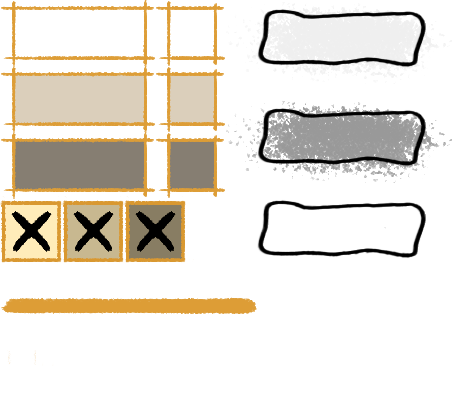
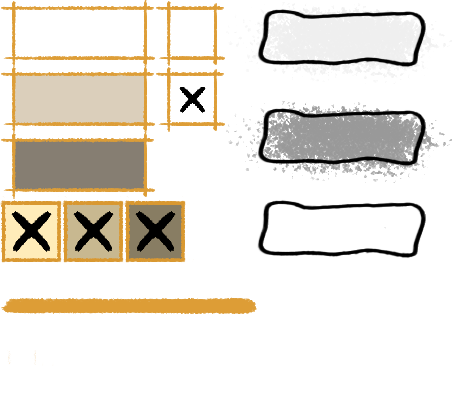
Some combat buttons

Changed region(s): [[0.3392, 0.1832, 0.4934, 0.5191]]

diff --git a/Game/Source/GuiButton.cpp b/Game/Source/GuiButton.cpp
@@ -1,7 +1,7 @@
 #include "GuiButton.h"
 #include "GuiManager.h"
 #include "IntroScene.h"
-
+#include "Combat.h"
 GuiButton::GuiButton(uint32 id, SDL_Rect bounds, ButtonType bType, const char* text, int fontSize, Font font, int speed, Easings eType, AnimationAxis axisType) : GuiControl(GuiControlType::BUTTON, id)
 {
 	this->bounds = bounds;
@@ -67,19 +67,19 @@ GuiButton::GuiButton(uint32 id, SDL_Rect bounds, ButtonType bType, const char* t
 		buttonTex = app->tex->Load("Assets/GUI/Target_To_Select.png");
 		break;
 	case ButtonType::SKILL_1:
-		buttonTex = app->tex->Load("Assets/GUI/spritesheetAbility.png");
+		buttonTex = app->tex->Load("Assets/GUI/UIArt/buttonsCombat.png");
 		break;
 	case ButtonType::SKILL_2:
-		buttonTex = app->tex->Load("Assets/GUI/spritesheetAbility.png");
+		buttonTex = app->tex->Load("Assets/GUI/UIArt/buttonsCombat.png");
 		break;
 	case ButtonType::SKILL_3:
-		buttonTex = app->tex->Load("Assets/GUI/spritesheetAbility.png");
+		buttonTex = app->tex->Load("Assets/GUI/UIArt/buttonsCombat.png");
 		break;
 	case ButtonType::SKILL_4:
-		buttonTex = app->tex->Load("Assets/GUI/spritesheetAbility.png");
+		buttonTex = app->tex->Load("Assets/GUI/UIArt/buttonsCombat.png");
 		break;
 	case ButtonType::CHANGE_POSITION:
-		buttonTex = app->tex->Load("Assets/GUI/spritesheetAbility.png");
+		buttonTex = app->tex->Load("Assets/GUI/UIArt/buttonsCombat.png");
 		break;
 	case ButtonType::SKIPPY:
 		buttonTex = app->tex->Load("Assets/GUI/UIArt/buttonsCombat.png");
@@ -247,6 +247,12 @@ bool GuiButton::Draw(Render* render)
 	else if (buttonType == ButtonType::SKIPPY) { rect = { 351, 1, 132, 44 }; }
 	else if (buttonType == ButtonType::DIALOGUE) { rect = { 0, 0, 343, 66 }; }
 	else if (buttonType == ButtonType::EXTRA_LARGE) { rect.x = 5, rect.y = 5; }
+	else if (buttonType == ButtonType::SKILL_1) { rect = { 151, 201, 47, 47 }; }
+	else if (buttonType == ButtonType::SKILL_2) { rect = { 151, 251, 47, 47 }; }
+	else if (buttonType == ButtonType::SKILL_3) { rect = { 151, 0, 47, 47 }; }
+	else if (buttonType == ButtonType::SKILL_4) { rect = { 151, 0, 47, 47 }; }
+	else if (buttonType == ButtonType::CHANGE_POSITION) { rect = { 0, 0, 343, 66 }; }
+
 
 	// TO DO, EN DIALOGO LOS BOTONES DEBERIAN TENER MENOS OFFSET, ES DECIR, SE DEBERIAN PRINTAR CON JUSTIFICADO A LA IZQUIERDA, NO EN MEDIO
 	// ADEMAS DE HACER LO DEL TRIM TEXT PARA QUE SI LA OPCION ES MAS LARGA SE PRINTE EN LINEAS DISTINTAS.
@@ -433,11 +439,43 @@ bool GuiButton::Draw(Render* render)
 				render->DrawTexture(buttonTex, bounds.x, bounds.y + bounds.h + 7, &rect);
 				break;
 			case ButtonType::SKILL_1:
-				render->DrawTexture(buttonTex, bounds.x, bounds.y, &rect);
+				switch (app->combat->listInitiative.At(app->combat->charaInTurn)->data->id)
+				{
+			
+				case 1:
+					rect.y = 1;
+					break;
+				case 2:
+					rect.x = 1;
+					rect.y = 201;
+					break;
+				case 3:
+					rect.x = 1;
+					rect.y = 1;
+					break;
+				default:
+					break;
+				}
+				render->DrawTexture(buttonTex, bounds.x - app->render->camera.x, bounds.y - app->render->camera.y, &rect);
 				break;
 			case ButtonType::SKILL_2:
-				rect.x = bounds.w*9;
-				render->DrawTexture(buttonTex, bounds.x, bounds.y, &rect);
+				switch (app->combat->listInitiative.At(app->combat->charaInTurn)->data->id)
+				{
+				case 1:
+					rect.y = 51;
+					break;
+				case 2:
+					rect.x = 1;
+					rect.y = 251;
+					break;
+				case 3:
+					rect.x = 1;
+					rect.y = 51;
+					break;
+				default:
+					break;
+				}
+				render->DrawTexture(buttonTex, bounds.x - app->render->camera.x, bounds.y - app->render->camera.y, &rect);
 				break;
 			case ButtonType::SKILL_3:
 				rect.x = bounds.w * 12;
@@ -531,12 +569,50 @@ bool GuiButton::Draw(Render* render)
 				render->DrawTexture(buttonTex, bounds.x, bounds.y + bounds.h + 7, &rect);
 				break;
 			case ButtonType::SKILL_1:
-				rect.x = 47;
-				render->DrawTexture(buttonTex, bounds.x, bounds.y, &rect);
+				switch (app->combat->listInitiative.At(app->combat->charaInTurn)->data->id)
+				{
+				case 0:
+					rect.x = 201;
+					break;
+				case 1:
+					rect.x = 201;
+					rect.y = 1;
+					break;
+				case 2:
+					rect.x = 51;
+					rect.y = 201;
+					break;
+				case 3:
+					rect.x = 51;
+					rect.y = 1;
+					break;
+				default:
+					break;
+				}
+				render->DrawTexture(buttonTex, bounds.x - app->render->camera.x, bounds.y - app->render->camera.y, &rect);
 				break;
 			case ButtonType::SKILL_2:
-				rect.x = bounds.w * 10;
-				render->DrawTexture(buttonTex, bounds.x, bounds.y, &rect);
+				switch (app->combat->listInitiative.At(app->combat->charaInTurn)->data->id)
+				{
+				case 0:
+					rect.x = 201;
+					break;
+				case 1:
+					rect.x = 201;
+					rect.y = 51;
+					break;
+				case 2:
+					rect.x = 51;
+					rect.y = 251;
+					break;
+				case 3:
+					rect.x = 51;
+					rect.y = 51;
+					break;
+				default:
+					break;
+				}
+				render->DrawTexture(buttonTex, bounds.x - app->render->camera.x, bounds.y - app->render->camera.y, &rect);
 				break;
 			case ButtonType::SKILL_3:
 				rect.x = bounds.w * 13;
@@ -631,8 +707,50 @@ bool GuiButton::Draw(Render* render)
 				render->DrawTexture(buttonTex, bounds.x, bounds.y + bounds.h + 7, &rect);
 				break;
 			case ButtonType::SKILL_1:
+				switch (app->combat->listInitiative.At(app->combat->charaInTurn)->data->id)
+				{
+				case 0:
+					rect.x = 251;
+					break;
+				case 1:
+					rect.x = 251;
+					rect.y = 1;
+					break;
+				case 2:
+					rect.x = 101;
+					rect.y = 201;
+					break;
+				case 3:
+					rect.x = 101;
+					rect.y = 1;
+					break;
+				default:
+					break;
+				}
+				render->DrawTexture(buttonTex, bounds.x - app->render->camera.x, bounds.y - app->render->camera.y, &rect);
 				break;
 			case ButtonType::SKILL_2:
+				switch (app->combat->listInitiative.At(app->combat->charaInTurn)->data->id)
+				{
+				case 0:
+					rect.x = 251;
+					break;
+				case 1:
+					rect.x = 251;
+					rect.y = 51;
+					break;
+				case 2:
+					rect.x = 101;
+					rect.y = 251;
+					break;
+				case 3:
+					rect.x = 101;
+					rect.y = 51;
+					break;
+				default:
+					break;
+				}
+				render->DrawTexture(buttonTex, bounds.x - app->render->camera.x, bounds.y - app->render->camera.y, &rect);
 				break;
 			case ButtonType::SKILL_3:
 				break;
